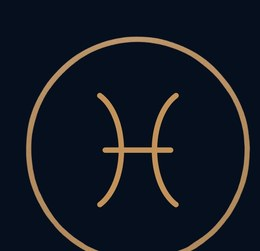
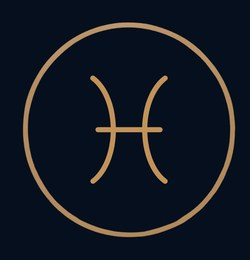
Add files via upload

Changed region(s): [[0.084, 0.0837, 0.98, 1.0]]

diff --git a/index.html b/index.html
@@ -23,10 +23,7 @@
     top: 0;
     z-index: 10;
     background: rgb(6,15,30);
-    padding-top: 2.199%;
-    padding-left: 2.601%;
-    padding-right: 5.583%;
-    padding-bottom: 8px;
+    padding: 0 0 8px;
   }
   .hero {
     display: block;
@@ -38,6 +35,13 @@
   .art {
     display: block;
     width: 100%;
+    position: relative;
+    z-index: 1;
+  }
+  .unlock {
+    display: block;
+    width: 72%;
+    margin: 16px auto 30px;
     position: relative;
     z-index: 1;
   }
@@ -199,7 +203,7 @@
       </div>
     </div>
 
-    <img class="art" src="unlock.jpg" alt="">
+    <img class="unlock" src="unlock.jpg" alt="">
   </div>
 <script>
 (function(){
